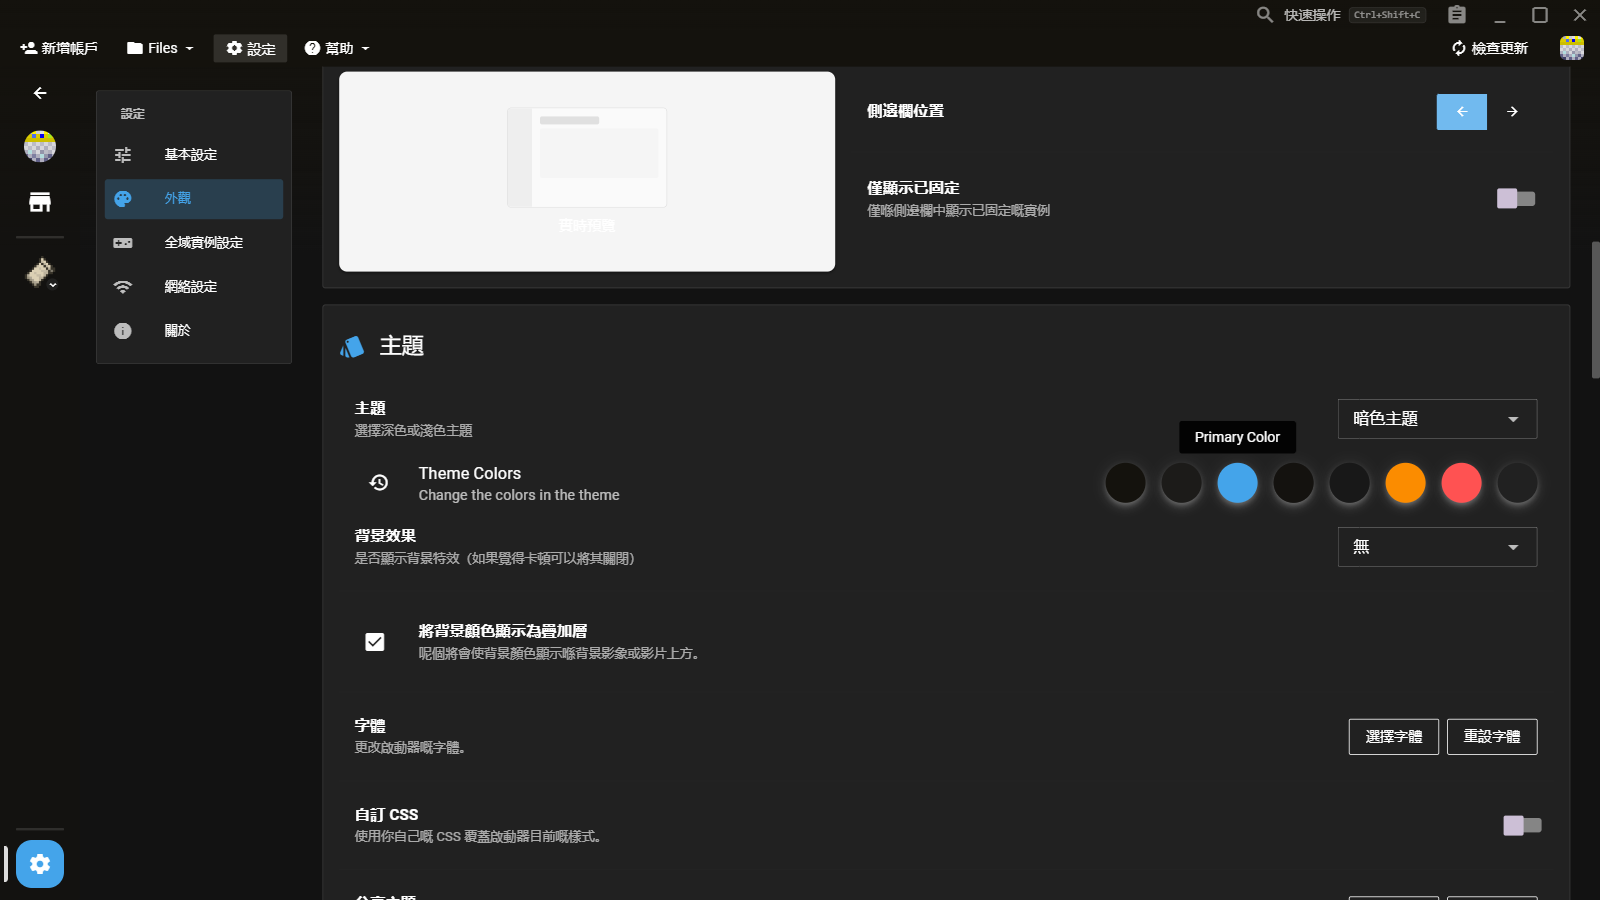
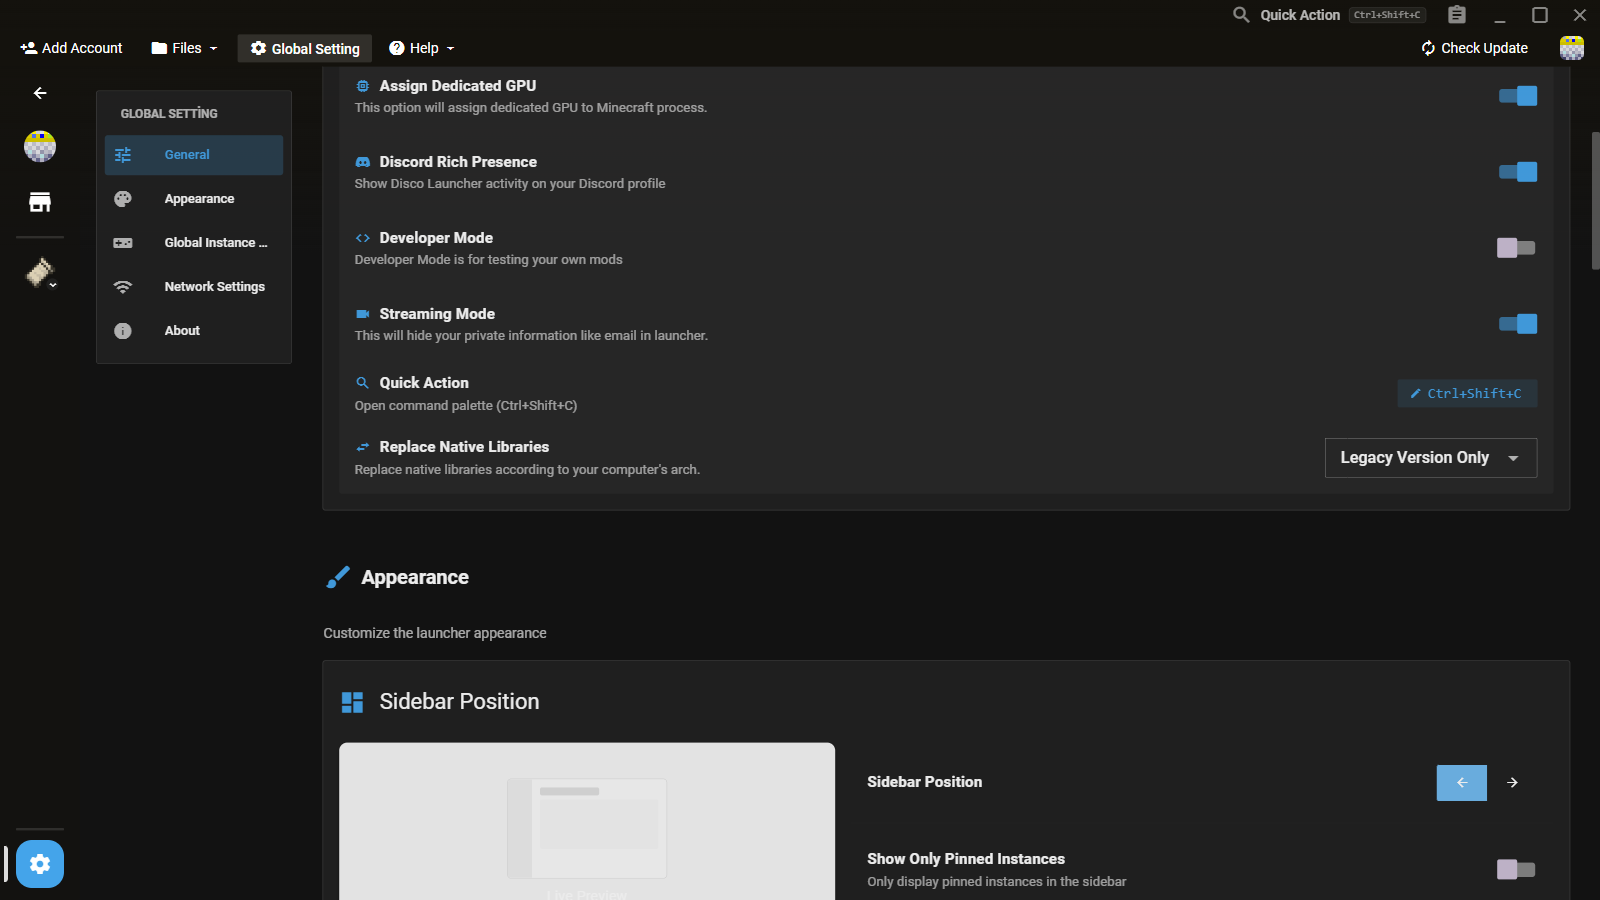
docs: refresh README screenshots and add the modpack store view
- re-captured home and appearance shots from the current build
- new store.png with the discover grid fully loaded (98 cards) from
  CurseForge/Modrinth/FTB; added to both READMEs
- readme-shots-refresh driver waits on real content (action panel,
  color row, image cards) instead of fixed sleeps

🤖 Generated with Codebuff

diff --git a/README.md b/README.md
@@ -52,6 +52,11 @@
 </p>
 <p align="center"><em>Görünüm ayarları — 8 renk seçicisi ve "Başlat" butonu için özel renk</em></p>
 
+<p align="center">
+  <img alt="Mağaza" width="820" src="docs/images/store.png">
+</p>
+<p align="center"><em>Mod paketi mağazası — CurseForge, Modrinth ve FTB; keşif ızgarası</em></p>
+
 ## 🆚 XMCL Farkı Nedir?
 
 Disco Launcher, XMCL'nin optimizasyon fork'u olarak başladı. Bilinçli farkların özeti:

diff --git a/README.en.md b/README.en.md
@@ -51,6 +51,11 @@
 </p>
 <p align="center"><em>Appearance settings — 8 color pickers, including a dedicated color for the Launch button</em></p>
 
+<p align="center">
+  <img alt="Modpack store" width="820" src="docs/images/store.png">
+</p>
+<p align="center"><em>Modpack market — CurseForge, Modrinth and FTB; the discover grid</em></p>
+
 ## 🆚 How Is It Different from XMCL?
 
 | Area | XMCL | Disco Launcher |
